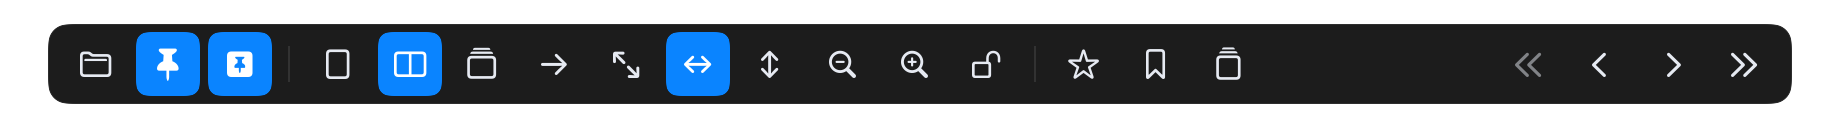
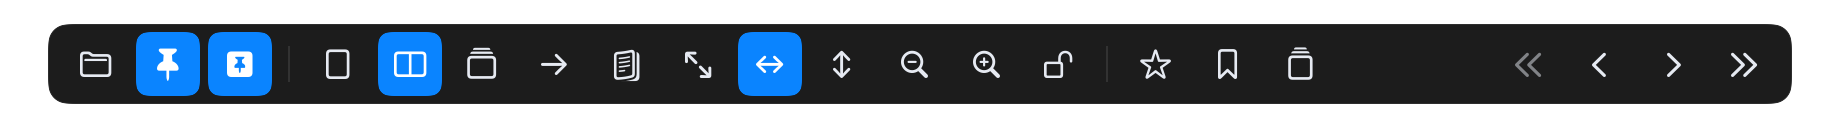
메뉴얼 업데이트

Changed region(s): [[0.3098, 0.25, 0.4647, 0.75], [0.5266, 0.375, 0.7125, 0.625]]

diff --git a/PanelyTests/Snapshots/SnapshotGalleryTests.swift b/PanelyTests/Snapshots/SnapshotGalleryTests.swift
@@ -107,6 +107,26 @@ struct SnapshotGalleryTests {
         )
     }
 
+    @Test func toolbarSpreadOffset() async throws {
+        // Double-page with the standalone-cover offset enabled, so the manual
+        // shows the (double-mode-only) offset toggle in its active state.
+        let vm = SnapshotSampleContent.loadedViewModel(
+            layout: .double,
+            fitMode: .fitWidth,
+            sidebarPinned: true,
+            coverAlone: true
+        )
+        let viewer = ViewerController()
+        try await render(
+            ReaderToolbarOverlay(shown: true)
+                .environment(vm)
+                .environment(viewer)
+                .padding(PanelySpacing.md),
+            size: SnapshotRenderer.toolbarSize,
+            named: "14-toolbar-spread-offset.png"
+        )
+    }
+
     // MARK: - Overlays
 
     @Test func endOfVolumeCard() async throws {

diff --git a/Panely/Features/Library/LibrarySidebar.swift b/Panely/Features/Library/LibrarySidebar.swift
@@ -129,11 +129,16 @@ struct LibrarySidebar: View {
                             .font(PanelyTypography.body)
                             .foregroundStyle(PanelyColor.textPrimary)
                             .lineLimit(1)
+                            // Match the file tree: keep the trailing volume
+                            // number visible instead of clipping it with a
+                            // tail ellipsis.
+                            .truncationMode(.middle)
                         Spacer(minLength: 0)
                         ReadingBadgeView(badge: .inProgress(fraction: continueReadingFraction))
                     }
                     .contentShape(Rectangle())
                     .padding(.vertical, 2)
+                    .help(title)
                 }
                 .buttonStyle(.plain)
                 .listRowBackground(Color.clear)

diff --git a/PanelyTests/Snapshots/SnapshotSampleContent.swift b/PanelyTests/Snapshots/SnapshotSampleContent.swift
@@ -157,6 +157,7 @@ enum SnapshotSampleContent {
         sidebarPinned: Bool = false,
         toolbarPinned: Bool = true,
         thumbnailSidebarVisible: Bool = false,
+        coverAlone: Bool = false,
         pageIndex: Int = 0,
         pageCount: Int = 24,
         library: LibraryFixture? = nil
@@ -168,6 +169,7 @@ enum SnapshotSampleContent {
         vm.preferences.sidebarMode.pinned = sidebarPinned
         vm.preferences.toolbarPinned = toolbarPinned
         vm.preferences.thumbnailSidebarVisible = thumbnailSidebarVisible
+        vm.preferences.doublePageCoverAlone = coverAlone
 
         vm.source = mockSource(pageCount: pageCount)
         if let library {

diff --git a/Panely/Features/Library/Rows/FavoriteRow.swift b/Panely/Features/Library/Rows/FavoriteRow.swift
@@ -16,10 +16,13 @@ struct FavoriteRow: View {
                     .font(PanelyTypography.body)
                     .foregroundStyle(isActive ? PanelyColor.accentPrimary : PanelyColor.textPrimary)
                     .lineLimit(1)
+                    // Keep the trailing volume number visible (see FileNodeRow).
+                    .truncationMode(.middle)
                 Spacer(minLength: 0)
             }
             .contentShape(Rectangle())
             .padding(.vertical, 2)
+            .help(favorite.title)
         }
         .buttonStyle(.plain)
         .contextMenu {

diff --git a/docs/manual.ko.md b/docs/manual.ko.md
@@ -66,6 +66,15 @@ Panely 리더 인터페이스의 시각적 둘러보기입니다. 전체 기능 
 병렬로 디코드되어 스프레드 전환이 빠릅니다. 아래의 RTL 방향과 함께
 쓰면 자연스러운 만화 셋업이 됩니다.
 
+**표지 한 장(스프레드 오프셋).** 대부분의 스캔본은 1쪽이 단독 표지이고
+실제 펼침 그림은 2–3쪽부터 시작합니다. 기본값은 (1,2)(3,4)…로 짝지어서
+진짜 펼침이 두 화면에 쪼개지고 — 책 전체가 한 페이지씩 밀려 보입니다.
+**오프셋 버튼**(book-pages 아이콘, 두 페이지 모드에서만 표시)을 켜면
+표지를 단독으로 두고 그다음부터 짝지어 1 | (2,3) (4,5)… 가 됩니다. 이
+설정은 다음 실행에도 유지되며, 펼침이 이미 맞는 책에서는 꺼 두면 됩니다.
+
+![두 페이지 표지 한 장(스프레드 오프셋) 토글](screenshots/14-toolbar-spread-offset.png)
+
 ### 세로 스크롤 (`⌘⇧3`)
 
 ![세로 스크롤(웹툰) 레이아웃](screenshots/03-hero-vertical-strip.png)
@@ -92,7 +101,7 @@ Panely 리더 인터페이스의 시각적 둘러보기입니다. 전체 기능 
 왼쪽에서 오른쪽으로 그룹화:
 
 1. **Chrome** — 파일 열기(`⌘O`), 라이브러리 고정(`⌃⌘S`), 툴바 고정(`⌃⌘T`)
-2. **레이아웃** — 단일 / 이중 / 세로, 그리고 읽기 방향 토글
+2. **레이아웃** — 단일 / 이중 / 세로, 읽기 방향 토글, 그리고 (두 페이지 모드일 때) 표지 한 장(스프레드 오프셋) 토글
 3. **맞춤 & 줌** — 화면 / 가로 / 세로 맞춤(`⌘1`/`⌘2`/`⌘3`), 줌 인/아웃(`⌘+`/`⌘−`), 뷰 크기 잠금(`⌘L`)
 4. **북마크** — 책 즐겨찾기(`⌘⇧D`), 페이지 북마크(`⌘D`), 썸네일 사이드바 토글(`⌃⌘P`)
 5. **네비게이션** (오른쪽 끝) — 이전/다음 권(`⌘[`/`⌘]`), 이전/다음 페이지(`←`/`→`)

diff --git a/docs/manual.md b/docs/manual.md
@@ -67,6 +67,17 @@ Two pages side by side, matching the physical book experience. Both
 pages decode in parallel so spread refreshes feel snappy. Combined with
 RTL reading direction (below), this is the natural manga setup.
 
+**Standalone-cover offset.** Most scans put a lone cover on page 1, with
+the true facing spreads starting at pages 2–3. By default the viewer
+pairs (1,2) (3,4)…, which splits every real spread across two viewer
+spreads — so the whole book looks shifted by one page. Toggle the
+**offset button** (the book-pages icon, shown only in double-page mode)
+to stand the cover alone and pair from there instead: 1 | (2,3) (4,5)….
+The setting is remembered across launches; leave it off for books whose
+spreads already line up.
+
+![Double-page standalone-cover offset toggle](screenshots/14-toolbar-spread-offset.png)
+
 ### Vertical scroll (`⌘⇧3`)
 
 ![Vertical scroll (webtoon) layout](screenshots/03-hero-vertical-strip.png)
@@ -93,7 +104,7 @@ top-to-bottom, so the direction toggle disables itself in vertical mode.
 Left to right, the toolbar groups are:
 
 1. **Chrome** — Open file (`⌘O`), pin library (`⌃⌘S`), pin toolbar (`⌃⌘T`)
-2. **Layout** — Single / Double / Vertical, plus reading direction toggle
+2. **Layout** — Single / Double / Vertical, reading direction toggle, and (in double-page mode) the standalone-cover offset toggle
 3. **Fit & Zoom** — Fit screen / width / height (`⌘1` / `⌘2` / `⌘3`), zoom in/out (`⌘+` / `⌘−`), view-size lock (`⌘L`)
 4. **Bookmarks** — Favorite book (`⌘⇧D`), bookmark page (`⌘D`), toggle thumbnail sidebar (`⌃⌘P`)
 5. **Navigation** (right edge) — Previous/next volume (`⌘[` / `⌘]`), previous/next page (`←` / `→`)

diff --git a/README.ko.md b/README.ko.md
@@ -45,6 +45,11 @@ Panely는 사용자를 방해하지 않는 만화 리더입니다. 필요 없을
 - **단일 페이지**, **두 페이지 펼침**, **세로 스크롤**(웹툰) 레이아웃 —
   툴바 세그먼트 컨트롤로 모드 직접 선택(사이클 라운드트립 없음);
   키보드는 `⌘⇧1` / `⌘⇧2` / `⌘⇧3`
+- **표지 한 장(스프레드 오프셋)** — 두 페이지 모드 전용 툴바 토글. 1쪽을
+  단독으로 보여주고 그다음부터 (2,3)(4,5)…로 짝지어, 단독 표지 때문에
+  펼침이 한 칸 밀려 보이는 문제를 해소. 영구 저장, 기본은 꺼짐. 모든
+  스프레드 계산(네비게이션·가시 영역·위치 복원)이 `SpreadCalculator`
+  한 곳을 거쳐 어디서나 짝짓기가 일관됨
 - **좌→우** 또는 **우→좌** 읽기(만화 친화). 세로 모드에서는 RTL 무시
   (웹툰은 위→아래), 방향 토글 자동 비활성화
 - **세 가지 맞춤 모드** — 툴바 세그먼트 픽커(한 번 탭으로 직접 선택)와
@@ -522,7 +527,7 @@ PanelyTests/                            # 소스 트리를 미러링
 docs/
 ├── manual.md                           # 영문 사용 설명서 (스크린샷 둘러보기)
 ├── manual.ko.md                        # 한글 사용 설명서
-├── screenshots/                        # SnapshotGalleryTests가 생성하는 13개 PNG
+├── screenshots/                        # SnapshotGalleryTests가 생성하는 14개 PNG
 ├── panely_design_system_mac_os.md
 └── icon/panely-icon-stacked.svg
 

diff --git a/README.md b/README.md
@@ -47,6 +47,12 @@ pages.
 - **Single page**, **double-page spread**, and **vertical scroll** (webtoon)
   layouts — segmented toolbar control picks the mode directly (no cycle
   round-trip through `vertical`); `⌘⇧1` / `⌘⇧2` / `⌘⇧3` for keyboard
+- **Standalone-cover spread offset** — a double-page-only toolbar toggle
+  that shows page 1 alone, then pairs (2,3) (4,5)… so a lone cover doesn't
+  push every facing spread one page out of alignment. Persisted; off by
+  default. All spread grouping (navigation, the visible span, position
+  restore) routes through one `SpreadCalculator`, so the pairing stays
+  consistent everywhere
 - **Left-to-right** or **right-to-left** reading (manga-friendly). RTL is
   ignored in vertical mode (webtoons are top-to-bottom) and the direction
   toggle disables itself there
@@ -552,7 +558,7 @@ PanelyTests/                            # mirrors the source tree
 docs/
 ├── manual.md                           # English user manual (screenshot walkthrough)
 ├── manual.ko.md                        # Korean user manual
-├── screenshots/                        # 13 PNGs generated by SnapshotGalleryTests
+├── screenshots/                        # 14 PNGs generated by SnapshotGalleryTests
 ├── panely_design_system_mac_os.md
 └── icon/panely-icon-stacked.svg
 
